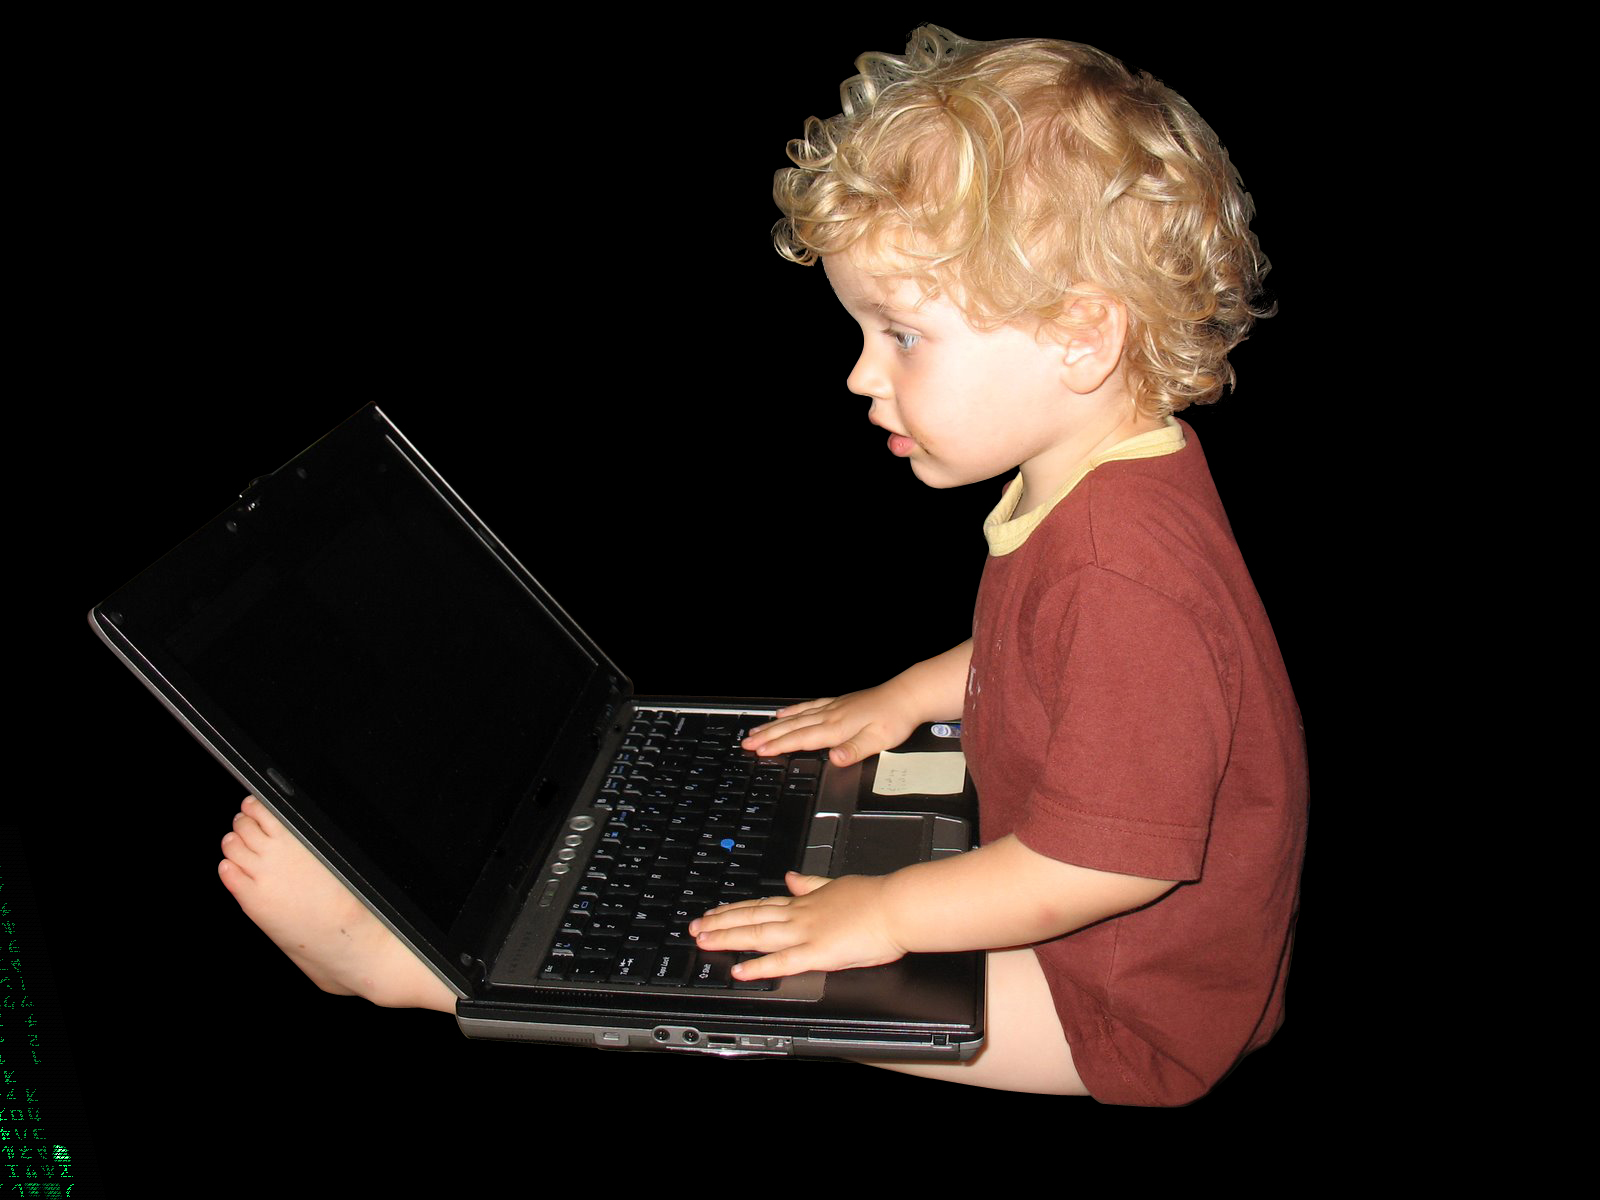
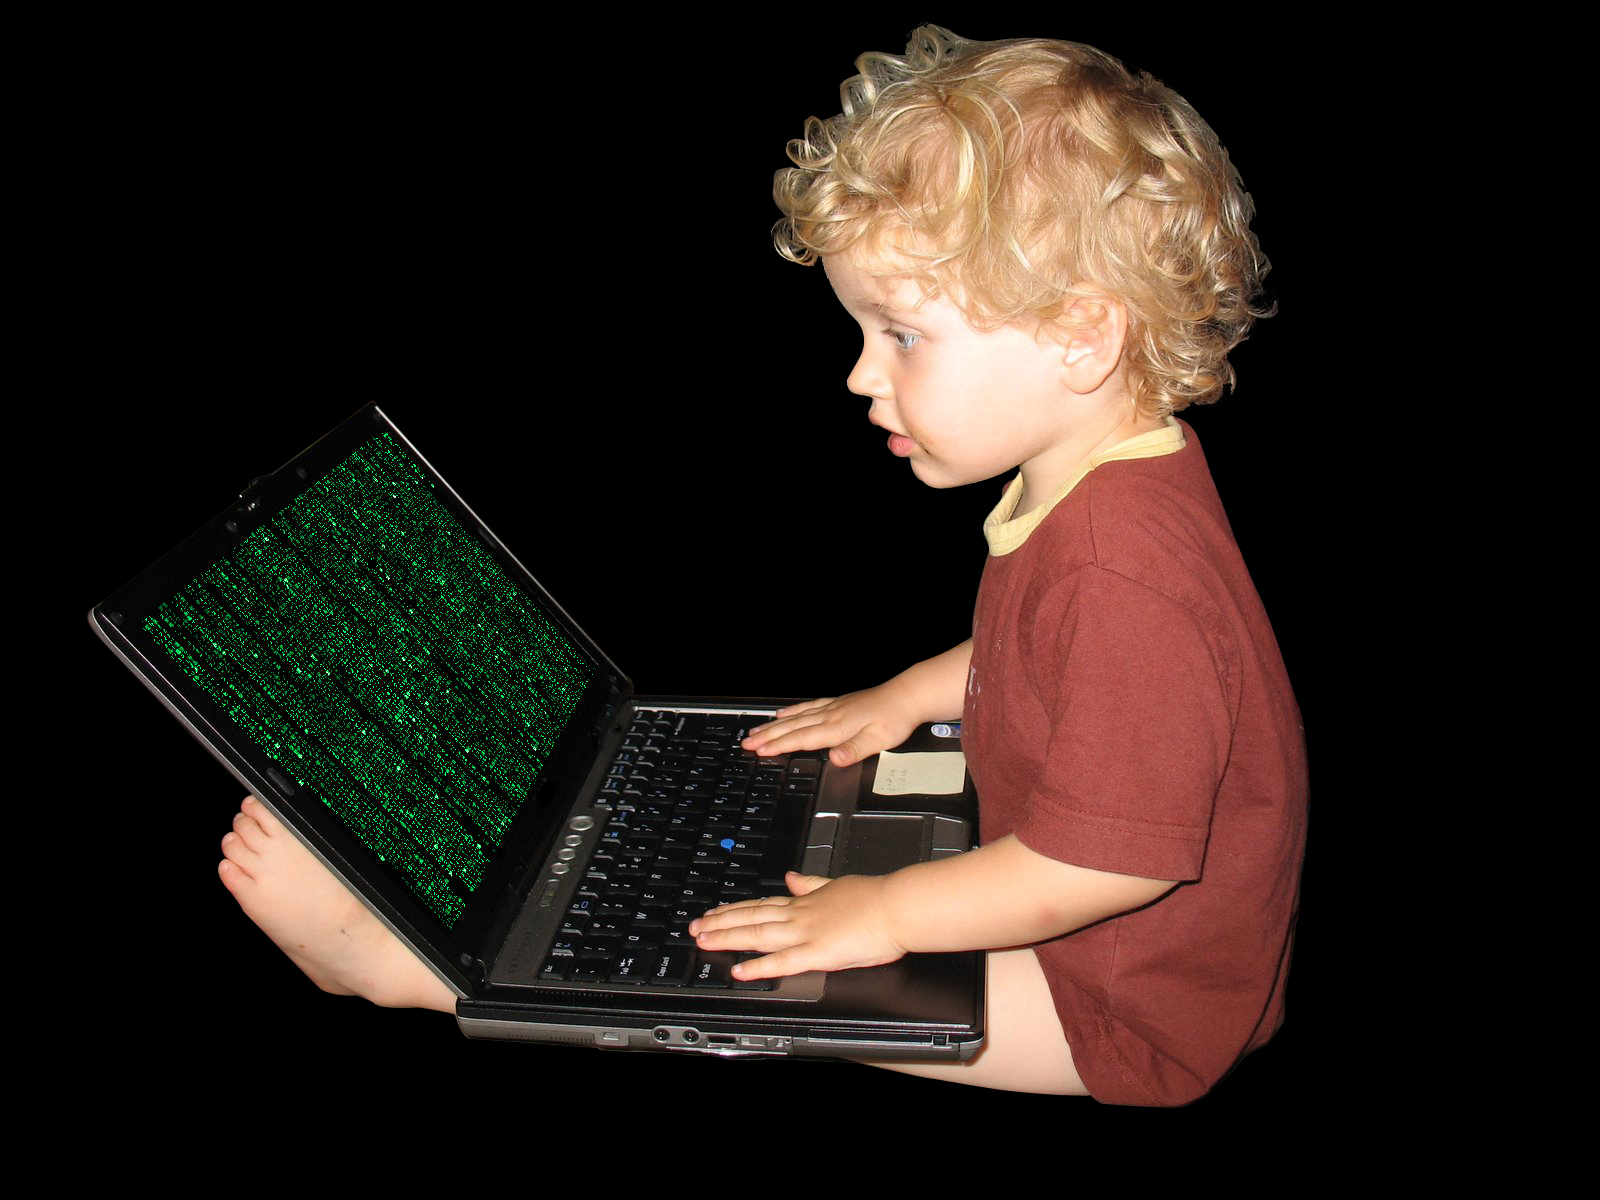
Working version, matrix3d syntax (like CSS).

Changed region(s): [[0.0938, 0.37, 0.375, 0.74], [0.0, 0.925, 0.0625, 1.0]]

diff --git a/demo.html b/demo.html
@@ -6,17 +6,17 @@
 <style>
 .base {
     background-image: url("whizzkid.png");
-    background-size: 800px 600px;
+    background-size: 1600px 1200px;
     background-repeat: no-repeat;
-    width: 800px;
-    height: 600px;
+    width: 1600px;
+    height: 1200px;
 }
 .box {
     background-image: url("matrix.png");
-    background-size: 640px 512px;
+    background-size: 1280px 1024px;
     background-repeat: no-repeat;
-    width: 640px;
-    height: 512px;
+    width: 1280px;
+    height: 1024px;
     border: 1px solid white;
     color: white;
 }
@@ -60,6 +60,7 @@ getTransform = (from, to) ->
   H
 
 applyTransform = (element, originalPos, targetPos, callback) ->
+  console.log targetPos
   # All offsets were calculated relative to the document
   # Make them relative to (0, 0) of the element instead
   from = for p in originalPos

diff --git a/composer.py b/composer.py
@@ -5,37 +5,17 @@ import numpy as np
 from PIL import Image
 
 
-class Camera(object):
-
-    def __init__(self, c, t, e):
-        self.c = np.array(c)
-        self.e = np.array(e)
-        m1 = np.matrix([
-            [            1,              0,              0],
-            [            0,  np.cos(-t[0]), -np.sin(-t[0])],
-            [            0,  np.sin(-t[0]),  np.cos(-t[0])],
-        ])
-        m2 = np.matrix([
-            [ np.cos(-t[1]),             0,  np.sin(-t[1])],
-            [             0,             1,              0],
-            [-np.sin(-t[1]),             0,  np.cos(-t[1])],
-        ])
-        m3 = np.matrix([
-            [ np.cos(-t[1]), -np.sin(-t[1]),             0],
-            [ np.sin(-t[1]),  np.cos(-t[1]),             0],
-            [             0,              0,             1],
-        ])
-        self.m = m1 * m2 * m3
-
-    def project(self, a):
-        a = np.array(a)
-        d = self.m.dot(a - self.c)
-        d = np.asarray(d).reshape(-1)
-        e = self.e
-        ed = e[2] / d[2]
-        bx = ed * d[0] - e[0]
-        by = ed * d[1] - e[1]
-        return np.array([bx, by])
+def matrix3d(a1, b1, c1, d1, a2, b2, c2, d2, a3, b3, c3, d3, a4, b4, c4, d4):
+    return np.matrix([
+        [a1, a2, a3, a4],
+        [b1, b2, b3, b4],
+        [c1, c2, c3, c4],
+        [d1, d2, d3, d4],
+        #[a1, b1, c1, d1],
+        #[a2, b2, c2, d2],
+        #[a3, b3, c3, d3],
+        #[a4, b4, c4, d4],
+    ])
 
 
 def main(argv):
@@ -50,22 +30,14 @@ def main(argv):
 
     im = Image.open(args.image)
     pix = im.load()
-
-    cam = Camera([4000, 1000, 5000], [0.3, 0, 0], [5000, 1000, 6000])
-
-    f = 2.0
-    m = np.matrix([
-        [1, 0, 0,   0],
-        [0, 1, 0,   0],
-        [0, 0, 1/f, 0],
-    ])
+    m = matrix3d(0.311894, -0.0183492, 0, 0.000312516, 0.336065, 0.373659, 0, 0.0000710468, 0, 0, 1, 0, 138, 623, 0, 1)
 
     for i in range(im.width):
         for j in range(im.height):
-            a = np.array([i, j, 0.])
-            b = cam.project(a)
-            x = int(b[0])
-            y = int(b[1])
+            a = np.array([i, j, 1.0, 1.0])
+            b = np.asarray(m.dot(a)).reshape(-1)
+            x = int(b[0]/b[3])
+            y = int(b[1]/b[3])
             if 0 <= x < base_im.width and 0 <= y < base_im.height:
                 base_pix[x, y] = pix[i, j]
 
